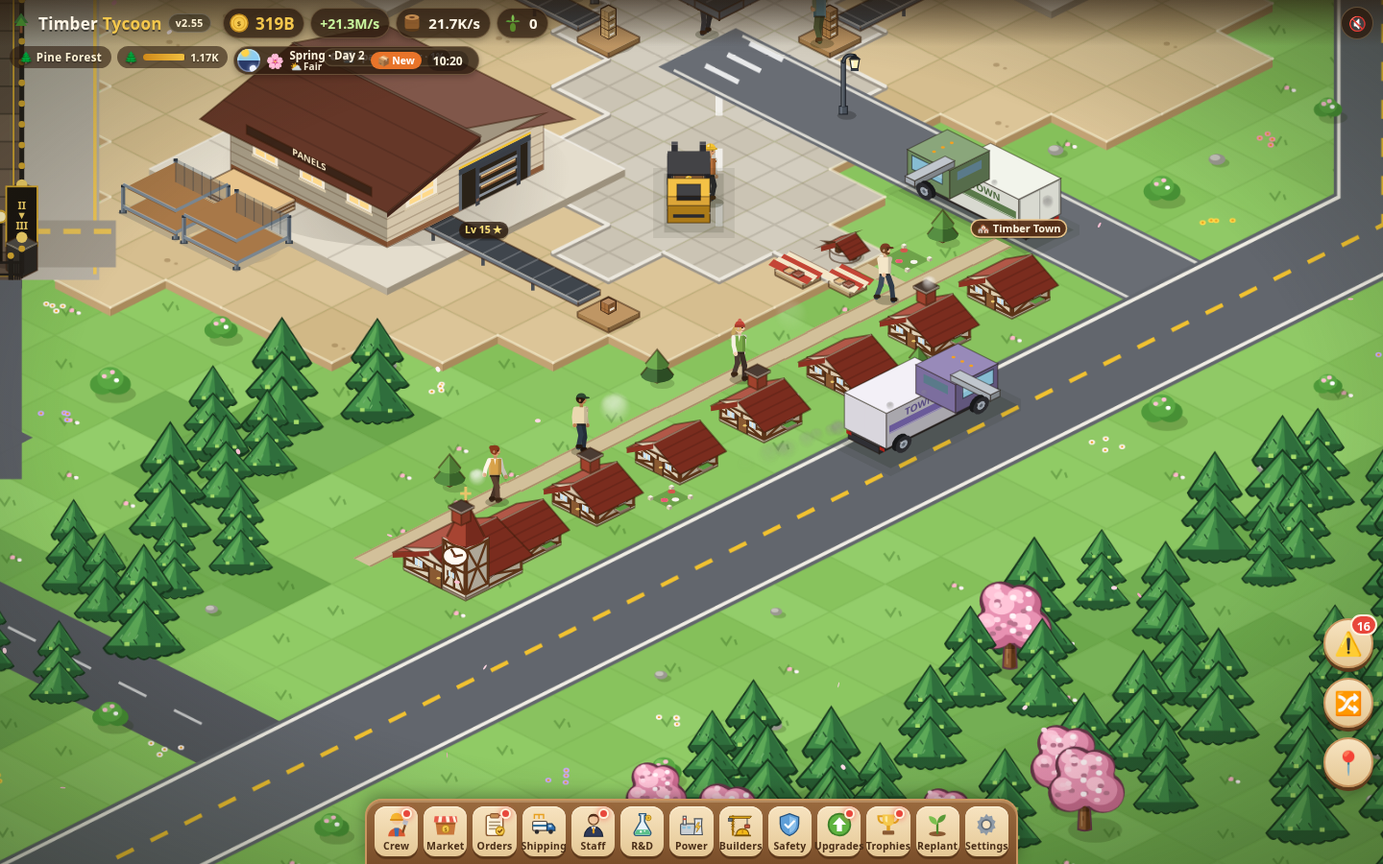
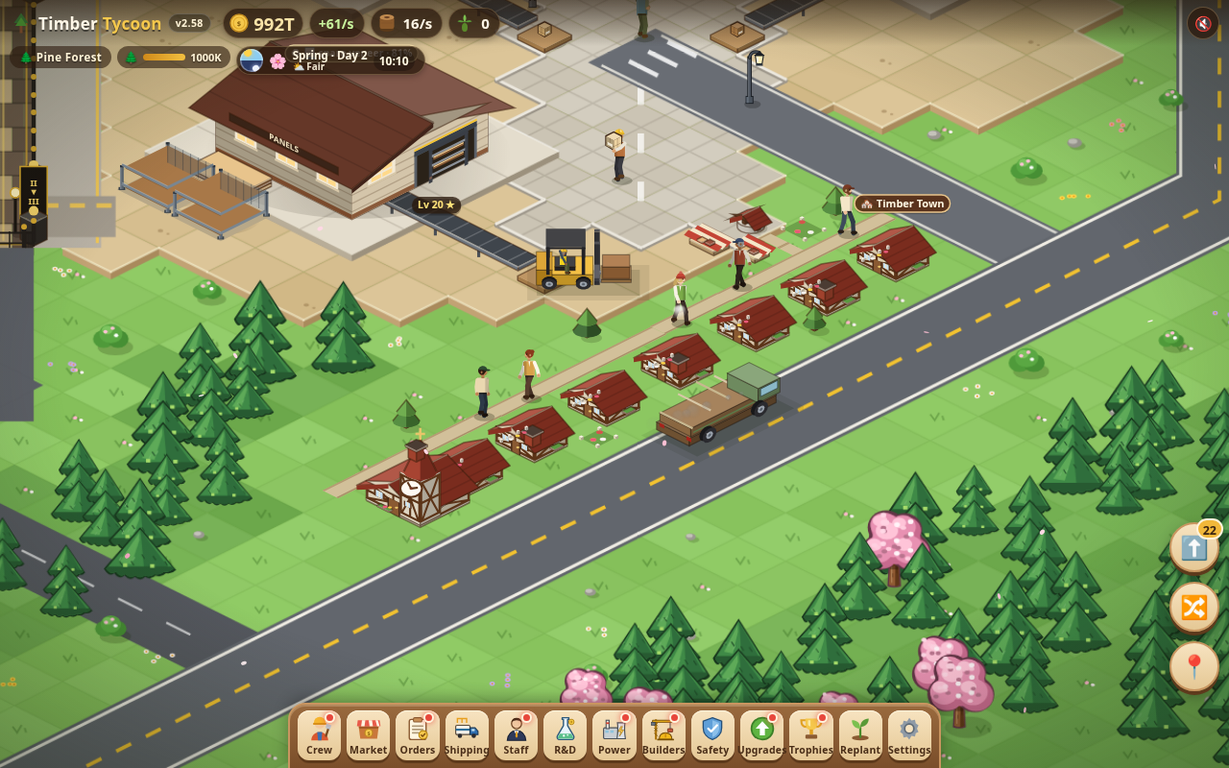
v2.58: keep cottage chimneys off the street
A far-corner stack projected onto the path, so a walker at a doorstep stood on the pot. The chimney now stands on the near corner of the roof, and the depth split keeps that pot, the stall awning, the well roof and the tree tip in the near half.

diff --git a/js/game.js b/js/game.js
@@ -8122,8 +8122,9 @@ function mktFleetDraw(ctx,objs,inView){
    corner) so a walker, a van or the scaffold cannot paint across a roof. The clip is
    the sprite's own box: a canvas-sized rectangle is dropped by the browser and the
    top of the sprite never paints. The church spire stands on the near corner, so the
-   whole tower stays in the near half (townSplitLift 64). One more walker on a large
-   screen, and only while graphics are not Low. */
+   whole tower stays in the near half (townSplitLift 64). A cottage chimney stands
+   on the near corner of the roof, and its lift is 42, so the stack stays in the near half.
+   One more walker on a large screen, and only while graphics are not Low. */
 const TOWN_STAGES=[
   {n:0,name:'Empty lot',say:'A cleared lot by the south gate, waiting on the first house kit.'},
   {n:1,name:'Hamlet',say:'One timber-frame cottage, a garden and a tree.'},
@@ -8323,7 +8324,9 @@ function townCot(ctx,p){
   townWin(ctx,'J',i1-.3,j1,5.2,.18,3.3);
   townWin(ctx,'I',i1,j0+.12,5.4,.2,3.1);
   gable(ctx,i0,j0,i1,j1,h,7.2,'j',TOWN_ROOF,wall,.08);
-  if(p.chim) townChim(ctx,i0+.16,j0+.16,h+3.2);
+  // Near corner of the roof. A stack on the far corner is pulled up onto the street,
+  // and a walker pausing at the doorstep stands on the pot.
+  if(p.chim) townChim(ctx,p.i+.28,p.j+.26,9.4);
   // flower box under the east window
   box(ctx,i1-.02,j0+.16,i1+.08,j0+.34,3.6,4.5,'#6b4226',{top:'#5a9a40'});
   // street-side picket and a few blooms, kept inside the footprint so the cached sprite does not grow
@@ -8538,16 +8541,20 @@ const TOWN_FEET=0.004;
 function townFlat(p){return p.kind==='path'||p.kind==='garden'||p.kind==='stake';}
 function townBoxOf(p){return {i0:p.i-p.wi/2,j0:p.j-p.wj/2,i1:p.i+p.wi/2,j1:p.j+p.wj/2};}
 /* Pixels above the footprint centre where the near half begins.
-   The roof slope that faces the camera stays with the near half. The far roof stays above the line.
-   The church tower is the exception: it stands on the near corner, and its cross clears the
-   centre by ~49px (shaft 29 + cone 22 + cross 7, minus the corner's own offset). A lower
-   line would leave the spire in the far half, where a walker between the two depths paints over it. */
+   Screen Y is (i+j)*HH - z, so a taller part or a far corner sits further above the centre.
+   The near half is everything at or below this line, and it sorts at the front corner, so a
+   walker between the two depths cannot paint over it. The far half is only what clears the line.
+   Anything left above the line is behind that walker: the church cross (about 49px up) and a
+   cottage chimney (wall 11.5, stack from +3.2, cap to +8.6, about 35px up at the far corner)
+   both did that. The back clip also reaches 0.8px below the line, so the lift sits a few
+   pixels past the tallest near-facing part. */
 function townSplitLift(p){
-  if(p.kind==='church') return 64;
-  if(p.kind==='tree') return 22;
-  if(p.kind==='well') return 14;
-  if(p.kind==='stall') return 9;
-  if(p.kind==='sign') return 7;
+  if(p.kind==='church') return 64;  // cross ~49px, nave chimney ~41px
+  if(p.kind==='cot') return 42;     // chimney cap ~35px; the near roof is below that
+  if(p.kind==='tree') return 28;    // upper cone tip ~19px
+  if(p.kind==='stall') return 22;   // awning, higher at the back, ~16px
+  if(p.kind==='well') return 20;    // little roof peak ~14px
+  if(p.kind==='sign') return 12;    // roof mark ~8px
   return 14;
 }
 /* Far half at the back corner, near half at the front corner.

diff --git a/releases/v2.58/js/game.js b/releases/v2.58/js/game.js
@@ -8122,8 +8122,9 @@ function mktFleetDraw(ctx,objs,inView){
    corner) so a walker, a van or the scaffold cannot paint across a roof. The clip is
    the sprite's own box: a canvas-sized rectangle is dropped by the browser and the
    top of the sprite never paints. The church spire stands on the near corner, so the
-   whole tower stays in the near half (townSplitLift 64). One more walker on a large
-   screen, and only while graphics are not Low. */
+   whole tower stays in the near half (townSplitLift 64). A cottage chimney stands
+   on the near corner of the roof, and its lift is 42, so the stack stays in the near half.
+   One more walker on a large screen, and only while graphics are not Low. */
 const TOWN_STAGES=[
   {n:0,name:'Empty lot',say:'A cleared lot by the south gate, waiting on the first house kit.'},
   {n:1,name:'Hamlet',say:'One timber-frame cottage, a garden and a tree.'},
@@ -8323,7 +8324,9 @@ function townCot(ctx,p){
   townWin(ctx,'J',i1-.3,j1,5.2,.18,3.3);
   townWin(ctx,'I',i1,j0+.12,5.4,.2,3.1);
   gable(ctx,i0,j0,i1,j1,h,7.2,'j',TOWN_ROOF,wall,.08);
-  if(p.chim) townChim(ctx,i0+.16,j0+.16,h+3.2);
+  // Near corner of the roof. A stack on the far corner is pulled up onto the street,
+  // and a walker pausing at the doorstep stands on the pot.
+  if(p.chim) townChim(ctx,p.i+.28,p.j+.26,9.4);
   // flower box under the east window
   box(ctx,i1-.02,j0+.16,i1+.08,j0+.34,3.6,4.5,'#6b4226',{top:'#5a9a40'});
   // street-side picket and a few blooms, kept inside the footprint so the cached sprite does not grow
@@ -8538,16 +8541,20 @@ const TOWN_FEET=0.004;
 function townFlat(p){return p.kind==='path'||p.kind==='garden'||p.kind==='stake';}
 function townBoxOf(p){return {i0:p.i-p.wi/2,j0:p.j-p.wj/2,i1:p.i+p.wi/2,j1:p.j+p.wj/2};}
 /* Pixels above the footprint centre where the near half begins.
-   The roof slope that faces the camera stays with the near half. The far roof stays above the line.
-   The church tower is the exception: it stands on the near corner, and its cross clears the
-   centre by ~49px (shaft 29 + cone 22 + cross 7, minus the corner's own offset). A lower
-   line would leave the spire in the far half, where a walker between the two depths paints over it. */
+   Screen Y is (i+j)*HH - z, so a taller part or a far corner sits further above the centre.
+   The near half is everything at or below this line, and it sorts at the front corner, so a
+   walker between the two depths cannot paint over it. The far half is only what clears the line.
+   Anything left above the line is behind that walker: the church cross (about 49px up) and a
+   cottage chimney (wall 11.5, stack from +3.2, cap to +8.6, about 35px up at the far corner)
+   both did that. The back clip also reaches 0.8px below the line, so the lift sits a few
+   pixels past the tallest near-facing part. */
 function townSplitLift(p){
-  if(p.kind==='church') return 64;
-  if(p.kind==='tree') return 22;
-  if(p.kind==='well') return 14;
-  if(p.kind==='stall') return 9;
-  if(p.kind==='sign') return 7;
+  if(p.kind==='church') return 64;  // cross ~49px, nave chimney ~41px
+  if(p.kind==='cot') return 42;     // chimney cap ~35px; the near roof is below that
+  if(p.kind==='tree') return 28;    // upper cone tip ~19px
+  if(p.kind==='stall') return 22;   // awning, higher at the back, ~16px
+  if(p.kind==='well') return 20;    // little roof peak ~14px
+  if(p.kind==='sign') return 12;    // roof mark ~8px
   return 14;
 }
 /* Far half at the back corner, near half at the front corner.

diff --git a/js/town.js b/js/town.js
@@ -13,8 +13,9 @@
    corner) so a walker, a van or the scaffold cannot paint across a roof. The clip is
    the sprite's own box: a canvas-sized rectangle is dropped by the browser and the
    top of the sprite never paints. The church spire stands on the near corner, so the
-   whole tower stays in the near half (townSplitLift 64). One more walker on a large
-   screen, and only while graphics are not Low. */
+   whole tower stays in the near half (townSplitLift 64). A cottage chimney stands
+   on the near corner of the roof, and its lift is 42, so the stack stays in the near half.
+   One more walker on a large screen, and only while graphics are not Low. */
 const TOWN_STAGES=[
   {n:0,name:'Empty lot',say:'A cleared lot by the south gate, waiting on the first house kit.'},
   {n:1,name:'Hamlet',say:'One timber-frame cottage, a garden and a tree.'},
@@ -214,7 +215,9 @@ function townCot(ctx,p){
   townWin(ctx,'J',i1-.3,j1,5.2,.18,3.3);
   townWin(ctx,'I',i1,j0+.12,5.4,.2,3.1);
   gable(ctx,i0,j0,i1,j1,h,7.2,'j',TOWN_ROOF,wall,.08);
-  if(p.chim) townChim(ctx,i0+.16,j0+.16,h+3.2);
+  // Near corner of the roof. A stack on the far corner is pulled up onto the street,
+  // and a walker pausing at the doorstep stands on the pot.
+  if(p.chim) townChim(ctx,p.i+.28,p.j+.26,9.4);
   // flower box under the east window
   box(ctx,i1-.02,j0+.16,i1+.08,j0+.34,3.6,4.5,'#6b4226',{top:'#5a9a40'});
   // street-side picket and a few blooms, kept inside the footprint so the cached sprite does not grow
@@ -429,16 +432,20 @@ const TOWN_FEET=0.004;
 function townFlat(p){return p.kind==='path'||p.kind==='garden'||p.kind==='stake';}
 function townBoxOf(p){return {i0:p.i-p.wi/2,j0:p.j-p.wj/2,i1:p.i+p.wi/2,j1:p.j+p.wj/2};}
 /* Pixels above the footprint centre where the near half begins.
-   The roof slope that faces the camera stays with the near half. The far roof stays above the line.
-   The church tower is the exception: it stands on the near corner, and its cross clears the
-   centre by ~49px (shaft 29 + cone 22 + cross 7, minus the corner's own offset). A lower
-   line would leave the spire in the far half, where a walker between the two depths paints over it. */
+   Screen Y is (i+j)*HH - z, so a taller part or a far corner sits further above the centre.
+   The near half is everything at or below this line, and it sorts at the front corner, so a
+   walker between the two depths cannot paint over it. The far half is only what clears the line.
+   Anything left above the line is behind that walker: the church cross (about 49px up) and a
+   cottage chimney (wall 11.5, stack from +3.2, cap to +8.6, about 35px up at the far corner)
+   both did that. The back clip also reaches 0.8px below the line, so the lift sits a few
+   pixels past the tallest near-facing part. */
 function townSplitLift(p){
-  if(p.kind==='church') return 64;
-  if(p.kind==='tree') return 22;
-  if(p.kind==='well') return 14;
-  if(p.kind==='stall') return 9;
-  if(p.kind==='sign') return 7;
+  if(p.kind==='church') return 64;  // cross ~49px, nave chimney ~41px
+  if(p.kind==='cot') return 42;     // chimney cap ~35px; the near roof is below that
+  if(p.kind==='tree') return 28;    // upper cone tip ~19px
+  if(p.kind==='stall') return 22;   // awning, higher at the back, ~16px
+  if(p.kind==='well') return 20;    // little roof peak ~14px
+  if(p.kind==='sign') return 12;    // roof mark ~8px
   return 14;
 }
 /* Far half at the back corner, near half at the front corner.

diff --git a/releases/v2.58/js/town.js b/releases/v2.58/js/town.js
@@ -13,8 +13,9 @@
    corner) so a walker, a van or the scaffold cannot paint across a roof. The clip is
    the sprite's own box: a canvas-sized rectangle is dropped by the browser and the
    top of the sprite never paints. The church spire stands on the near corner, so the
-   whole tower stays in the near half (townSplitLift 64). One more walker on a large
-   screen, and only while graphics are not Low. */
+   whole tower stays in the near half (townSplitLift 64). A cottage chimney stands
+   on the near corner of the roof, and its lift is 42, so the stack stays in the near half.
+   One more walker on a large screen, and only while graphics are not Low. */
 const TOWN_STAGES=[
   {n:0,name:'Empty lot',say:'A cleared lot by the south gate, waiting on the first house kit.'},
   {n:1,name:'Hamlet',say:'One timber-frame cottage, a garden and a tree.'},
@@ -214,7 +215,9 @@ function townCot(ctx,p){
   townWin(ctx,'J',i1-.3,j1,5.2,.18,3.3);
   townWin(ctx,'I',i1,j0+.12,5.4,.2,3.1);
   gable(ctx,i0,j0,i1,j1,h,7.2,'j',TOWN_ROOF,wall,.08);
-  if(p.chim) townChim(ctx,i0+.16,j0+.16,h+3.2);
+  // Near corner of the roof. A stack on the far corner is pulled up onto the street,
+  // and a walker pausing at the doorstep stands on the pot.
+  if(p.chim) townChim(ctx,p.i+.28,p.j+.26,9.4);
   // flower box under the east window
   box(ctx,i1-.02,j0+.16,i1+.08,j0+.34,3.6,4.5,'#6b4226',{top:'#5a9a40'});
   // street-side picket and a few blooms, kept inside the footprint so the cached sprite does not grow
@@ -429,16 +432,20 @@ const TOWN_FEET=0.004;
 function townFlat(p){return p.kind==='path'||p.kind==='garden'||p.kind==='stake';}
 function townBoxOf(p){return {i0:p.i-p.wi/2,j0:p.j-p.wj/2,i1:p.i+p.wi/2,j1:p.j+p.wj/2};}
 /* Pixels above the footprint centre where the near half begins.
-   The roof slope that faces the camera stays with the near half. The far roof stays above the line.
-   The church tower is the exception: it stands on the near corner, and its cross clears the
-   centre by ~49px (shaft 29 + cone 22 + cross 7, minus the corner's own offset). A lower
-   line would leave the spire in the far half, where a walker between the two depths paints over it. */
+   Screen Y is (i+j)*HH - z, so a taller part or a far corner sits further above the centre.
+   The near half is everything at or below this line, and it sorts at the front corner, so a
+   walker between the two depths cannot paint over it. The far half is only what clears the line.
+   Anything left above the line is behind that walker: the church cross (about 49px up) and a
+   cottage chimney (wall 11.5, stack from +3.2, cap to +8.6, about 35px up at the far corner)
+   both did that. The back clip also reaches 0.8px below the line, so the lift sits a few
+   pixels past the tallest near-facing part. */
 function townSplitLift(p){
-  if(p.kind==='church') return 64;
-  if(p.kind==='tree') return 22;
-  if(p.kind==='well') return 14;
-  if(p.kind==='stall') return 9;
-  if(p.kind==='sign') return 7;
+  if(p.kind==='church') return 64;  // cross ~49px, nave chimney ~41px
+  if(p.kind==='cot') return 42;     // chimney cap ~35px; the near roof is below that
+  if(p.kind==='tree') return 28;    // upper cone tip ~19px
+  if(p.kind==='stall') return 22;   // awning, higher at the back, ~16px
+  if(p.kind==='well') return 20;    // little roof peak ~14px
+  if(p.kind==='sign') return 12;    // roof mark ~8px
   return 14;
 }
 /* Far half at the back corner, near half at the front corner.

diff --git a/test/v258.py b/test/v258.py
@@ -177,12 +177,14 @@ with sync_playwright() as p:
       S.town.made=250000; townStage();
       gfxSet("high"); const hi=townFolk().length;
       gfxSet("low"); const lo=townFolk().length;
-      const lift=townSplitLift(townPieces().find(q=>q.kind==="church"));
+      const lifts={};
+      for(const k of ["church","cot","stall","well","tree","sign"]) lifts[k]=townSplitLift({kind:k});
       gfxSet("auto");
-      return {hi, lo, w:scene.w, low:gfxLow(), lift, looks:townLooks().length};
+      return {hi, lo, w:scene.w, low:gfxLow(), lifts, looks:townLooks().length};
     }''')
-    ok(folk['w']>=700 and folk['hi']==5 and folk['lo']==4 and folk['low'] is False and folk['lift']==64 and folk['looks']==6,
-       f"large screen adds one walker on High only, Low stays at the v2.57 count, church lift is 64 ({folk})")
+    ok(folk['w']>=700 and folk['hi']==5 and folk['lo']==4 and folk['low'] is False and folk['looks']==6
+       and folk['lifts']=={"church":64,"cot":42,"stall":22,"well":20,"tree":28,"sign":12},
+       f"large screen adds one walker on High only, Low stays at the v2.57 count, lifts clear the tall parts ({folk})")
     order=E(pg, ORDER)
     ok(order['nb']==0 and order['checks']>1000 and order['sc']>=2 and order['scBad']==0 and order['ni']==0,
        f"sort holds for residents, vans and the scaffold ({order['checks']} checks, {order['nb']} bad, scaffold halves {order['sc']}, inside {order['inside'][:2]})")
@@ -209,7 +211,6 @@ with sync_playwright() as p:
       scene.particles.length=0;
       for(let i=0;i<5;i++){scene.t=1; stepScene(0);}
       const ch=townPieces().find(q=>q.kind==="church");
-      const cot=townPieces().filter(q=>q.kind==="cot").pop();
       const dpr=scene.dpr||1, W=scene.w, H=scene.h;
       function flatCount(piece, half){
         const z=cam.z;
@@ -227,13 +228,37 @@ with sync_playwright() as p:
         }
         return {n, gold};
       }
-      const front=flatCount(ch,"front"), back=flatCount(ch,"back"), cotBack=flatCount(cot,"back");
       function art(R,G,B){
         const roof=R>140&&G<140&&B<115&&R>G+40&&R>B+35;
         const gold=R>200&&G>165&&B<140&&G>B+40&&R-G<80;
         const cap=R>40&&R<100&&G>25&&G<75&&B<65&&R>G+15&&Math.abs(G-B)<25;
         return roof||gold||cap;
       }
+      // Cottage roof, including the shaded slope, and the chimney shaft and grey-brown cap.
+      // Timber and the cream wall stay out, so a walker in front of a door is not a hit.
+      function house(R,G,B){
+        const roof=R>105&&R<220&&G<130&&B<110&&R>G+35&&R>B+30;
+        const pot=R>65&&R<150&&G>45&&G<130&&B>35&&B<120&&R>=G-5&&R-G<45&&Math.abs(G-B)<40;
+        return roof||pot;
+      }
+      function tally(piece, half, paint){
+        const z=cam.z;
+        g.setTransform(dpr,0,0,dpr,0,0); g.fillStyle="#00ff00"; g.fillRect(0,0,cv.width,cv.height);
+        const base=g.getImageData(0,0,cv.width,cv.height).data;
+        g.setTransform(dpr*z,0,0,dpr*z,dpr*(W/2-cam.x*z),dpr*(H/2-cam.y*z));
+        townClip(g, piece, half);
+        const d=g.getImageData(0,0,cv.width,cv.height).data;
+        let n=0, gold=0, chim=0;
+        for(let i=0;i<d.length;i+=4){
+          if(d[i]===base[i]&&d[i+1]===base[i+1]&&d[i+2]===base[i+2]) continue;
+          n++;
+          if(paint(d[i],d[i+1],d[i+2])){if(art(d[i],d[i+1],d[i+2])&&d[i]>200) gold++; if(house(d[i],d[i+1],d[i+2])) chim++;}
+        }
+        return {n, gold, chim};
+      }
+      const chimCot=townPieces().find(q=>q.kind==="cot"&&q.chim);
+      const front=flatCount(ch,"front"), back=flatCount(ch,"back");
+      const cotFront=tally(chimCot,"front",house), cotBack=tally(chimCot,"back",house);
       const keepLive=townLive, keepFolk=townFolk;
       const times=[];
       for(let t=0;t<110&&times.length<4;t+=0.45){
@@ -270,13 +295,72 @@ with sync_playwright() as p:
           }
         }
       }
+      // Same rule for every cottage roof and chimney. No handful of pixels is ignored:
+      // a walker standing on a pot is a miss. The row is on this camera.
+      const cots=keepLive().filter(q=>q.kind==="cot");
+      const cotTimes=[];
+      for(let t=0;t<110&&cotTimes.length<4;t+=0.45){
+        scene.t=t;
+        const near=townFolk().some(f=>cots.some(q=>Math.abs(f.j-q.j)<1.6));
+        if(near&&(cotTimes.length===0||t-cotTimes[cotTimes.length-1]>8)) cotTimes.push(+t.toFixed(2));
+      }
+      let cotCovered=0, cotMask=0, cotChecks=0;
+      const cotBad=[];
+      for(const clock of clocks){
+        TT.setClock(clock); S.wx.w="clear"; S.wx.next=1e15;
+        scene.particles.length=0; scene.t=cotTimes[0];
+        for(let i=0;i<3;i++) stepScene(0);
+        for(const t of cotTimes){
+          scene.particles.length=0; scene.t=t;
+          townLive=keepLive; townFolk=()=>[]; stepScene(0);
+          const A=g.getImageData(0,0,cv.width,cv.height).data;
+          townLive=()=>keepLive().filter(q=>q.kind!=="cot"); stepScene(0);
+          const B=g.getImageData(0,0,cv.width,cv.height).data;
+          townLive=keepLive; townFolk=keepFolk; stepScene(0);
+          const C=g.getImageData(0,0,cv.width,cv.height).data;
+          townLive=()=>keepLive().filter(q=>q.kind!=="cot"); stepScene(0);
+          const Ww=g.getImageData(0,0,cv.width,cv.height).data;
+          cotChecks++;
+          for(let i=0;i<A.length;i+=4){
+            if(A[i]===B[i]&&A[i+1]===B[i+1]&&A[i+2]===B[i+2]) continue;
+            if(!house(A[i],A[i+1],A[i+2])) continue;
+            cotMask++;
+            if(C[i]===A[i]&&C[i+1]===A[i+1]&&C[i+2]===A[i+2]) continue;
+            if(C[i]===Ww[i]&&C[i+1]===Ww[i+1]&&C[i+2]===Ww[i+2]){
+              cotCovered++;
+              if(cotBad.length<4) cotBad.push(clock+":"+t);
+            }
+          }
+        }
+      }
       townLive=keepLive; townFolk=keepFolk; scene.particles.length=0;
       TT.setClock(10*60); scene.visible=true;
-      return {covered, mask, checks, times, bad, front, back, cotBack:cotBack.n};
+      return {covered, mask, checks, times, bad, front, back, cotFront, cotBack, cotCovered, cotMask, cotChecks, cotTimes, cotBad};
     }''')
     ok(roof['times'] and len(roof['times'])>=3 and roof['checks']>=9 and roof['mask']>2000
-       and roof['covered']==0 and roof['cotBack']>200 and roof['front']['gold']>10 and roof['back']['gold']==0,
-       f"walkers cover 0 church roof/tower pixels ({roof['covered']} covered, mask {roof['mask']}, times {roof['times']}, clocks {roof['checks']}, far half {roof['cotBack']}, cross in the near half {roof['front']['gold']}/{roof['back']['gold']})")
+       and roof['covered']==0 and roof['front']['gold']>10 and roof['back']['gold']==0,
+       f"walkers cover 0 church roof/tower pixels ({roof['covered']} covered, mask {roof['mask']}, times {roof['times']}, clocks {roof['checks']}, cross in the near half {roof['front']['gold']}/{roof['back']['gold']})")
+    ok(roof['cotTimes'] and len(roof['cotTimes'])>=3 and roof['cotChecks']>=9 and roof['cotMask']>2000
+       and roof['cotCovered']==0 and roof['cotFront']['chim']>80 and roof['cotBack']['chim']==0,
+       f"walkers cover 0 cottage roof/chimney pixels ({roof['cotCovered']} covered, mask {roof['cotMask']}, times {roof['cotTimes']}, chimney in the near half {roof['cotFront']['chim']}/{roof['cotBack']['chim']}, {roof['cotBad']})")
+    # Feet on the cap are not a covered roof pixel: the boots sit in the grass just above the pot.
+    # The gap is in screen pixels, and zero is the only passing distance under 14.
+    gap=E(pg, r'''()=>{
+      let best=1e9;
+      for(let t=0;t<=50;t+=0.2){
+        scene.t=t;
+        for(const p of townPieces()){
+          if(!(p.kind==="cot"&&p.chim)) continue;
+          const top=P(p.i+.28, p.j+.26, 18);
+          for(const f of townFolk()){
+            const fp=P(f.i,f.j), d=Math.hypot(fp[0]-top[0], fp[1]-top[1]);
+            if(d<best) best=d;
+          }
+        }
+      }
+      return best;
+    }''')
+    ok(gap>=14, f"walker feet stay off the cottage chimney ({gap:.1f}px, need 14)")
     # ---- early game vs v2.55 ----
     pg.close()
     pg=page(); e_new=E(pg, EARLY); pg.close()

diff --git a/docs/DEVELOPMENT.md b/docs/DEVELOPMENT.md
@@ -33,7 +33,7 @@ Code map, workflow and conventions. The player-facing overview is the [README](.
 - `js/notify.js` (v2.43, maintenance item 8 part 1): calm notifications. `toast()` in `js/logic_b.js` calls `ntPush`: priorities `ntPri` (3 setbacks/fires, 2 milestones/trophies/tap feedback, 1 routine), caps `ntCap` (phone 1 / desktop 3), queue `NT.q` (≤ `NT_QMAX`, expiry `NT_WAIT`, the visible one hurries), repeat merge by `ntKey` (numbers masked, ×N badge), phone durations `ntDur`, tap to dismiss, the 🔔 pill `#ntPill` → `ntOpenLog` (last `NT_LOG`, per session), Settings row `#ntSet` (All / Important = `S.prefs.ntQuiet`), and the compact phone order offer `ntOrderCard` (`.mini` after `NT_OC_MINI` s). Tests that need a clean screen can call `ntClear()`; `NT.stats` counts pushed/shown/merged/queued/bumped/expired
 - `js/marketfleet.js` (v2.21): Town Market Fleet — small delivery vans / early-game carts that pick up auto-sold goods at Phase 1–2 stock piles and drive off-screen with a coin float (cosmetic; dock trucks stay for shipping). v2.55 adds one extra van per two village stages; those drive the south-gate street
 - `js/quality.js` (v2.56): graphics quality. `S.prefs.gfx` is `'high'`, `'low'` or absent (Auto). `gfxLow()` is what the scene asks: Low skips smoke, puddles, tree shadows, stars, rain splashes, wind sway and 60% of the weather particles, and replaces the night light map with one flat tint. `gfxTick(now)` runs once per `requestAnimationFrame` tick in `sceneLoop`: it is the frame cap (a tick less than 10 ms after the last drawn frame is skipped, 28 ms on Low, so 120 Hz+ screens draw every other tick and Low draws at 30 fps) and the Auto watch (two 4 s windows in a row under 40 fps switch to Low; the switch is kept for three days in `localStorage` `timberTycoon_gfx_v1`, not in the save). The watch is off under WebDriver so the suites always see High. The simulation loop in `js/main.js` is not touched
-- `js/town.js` (v2.55, depth fix v2.58): south-gate village. `S.town` is `{made, stage, best, seen}`. `made` counts timber-frame house kits that entered stock from the workshop this run (after the stock cap). `TOWN_STAGES` is Empty lot, Hamlet (1), Village (25), Large village (250), Market town (2,500), Town (25,000), Timber Town (250,000). `townMult()` is +2.5% per stage, capped at +15%, applied only by `marketPrice()` on auto-sell and the Sell button for Phase 1–2 goods. Logs stay unsellable. Orders, contracts, exports and research keep using `price()`. Replant clears `made`, `stage` and `seen` and keeps `best` for the trophies. Cottages, the square and the clock tower are cached sprites on the verge west of the highway. The village label passes `{lo:1}`. `townNorm()` repairs old and damaged saves and may seed `made` from houses already in stock. v2.58 draws each tall piece as two depths (`townPieceKeys`: far half at the back corner, near half at the front corner, split by `townSplitLift`; the church returns 64 so the tower, spire and cross stay in the near half) so a resident, a town van or the scaffold sorts between them instead of using one front-corner key for the whole sprite. The clip is the sprite box (`townHalfClip`); a canvas-sized clip rectangle is dropped by the browser. Walkers pause at the well, the stalls and a doorstep. `townExtraFolk()` adds one walker on a large screen and returns false on Low graphics and on a phone, so Low does not add a resident. `townSortParts()` is the list the tests read
+- `js/town.js` (v2.55, depth fix v2.58): south-gate village. `S.town` is `{made, stage, best, seen}`. `made` counts timber-frame house kits that entered stock from the workshop this run (after the stock cap). `TOWN_STAGES` is Empty lot, Hamlet (1), Village (25), Large village (250), Market town (2,500), Town (25,000), Timber Town (250,000). `townMult()` is +2.5% per stage, capped at +15%, applied only by `marketPrice()` on auto-sell and the Sell button for Phase 1–2 goods. Logs stay unsellable. Orders, contracts, exports and research keep using `price()`. Replant clears `made`, `stage` and `seen` and keeps `best` for the trophies. Cottages, the square and the clock tower are cached sprites on the verge west of the highway. The village label passes `{lo:1}`. `townNorm()` repairs old and damaged saves and may seed `made` from houses already in stock. v2.58 draws each tall piece as two depths (`townPieceKeys`: far half at the back corner, near half at the front corner, split by `townSplitLift`; the church returns 64 so the tower, spire and cross stay in the near half, and a cottage returns 42 so its chimney cap does too (stall 22, well 20, tree 28, sign 12)) so a resident, a town van or the scaffold sorts between them instead of using one front-corner key for the whole sprite. The clip is the sprite box (`townHalfClip`); a canvas-sized clip rectangle is dropped by the browser. Walkers pause at the well, the stalls and a doorstep. `townExtraFolk()` adds one walker on a large screen and returns false on Low graphics and on a phone, so Low does not add a resident. `townSortParts()` is the list the tests read
 - `js/tiers.js` (v2.20): factory tiers — Phase 1 (logs only) → Phase 2 → Premium, the new Veneer Peeler, processing margins, tier badges, cross-lane forklifts, ground signs (design: `docs/tiers-v2.20.md`); v2.20.1: logs are raw material only (`canSell`, Log Yard cap `logCap`, first Sawmill built with 🪵 `SAW_LOGS`, free first Lumberjack); v2.21.1: Phase 3 (Premium) is its own row beyond Phase 2 (`PROW` in `js/scene1.js`, row drawing in `js/scene7.js`) — three parallel rows I → II → III, II → III forklift gates, Phase 3 dock
 - `js/premium.js` (v2.2 storage, Premium Area, client orders; v2.6 daily contracts): v2.25 order sizing (`ordRate`, `ordPlan`, `ordPay`, `ordInc`: amounts follow real output with a value floor of 5 s of income / forest value, ≥ 20 units, rewards 1.5–2.5× the goods), the client order board (`S.orders.offers` / `acts`, `ordSlots` 1–3, `ordBoardMax`, `ordNorm` keeps `.offer` / `.active` as accessors), daily contracts drawn once lines run and resized until accepted (`dailyReady`, `dailyResize`); export contracts in `js/shipping.js` use the same floors
 - `js/research.js` (v2.19 Research 2.0): 67-node tree in 5 branches × 5 Legacy-gated tiers, milestone gates, growing costs, ♾ repeatables, R&D sheet + trade map (design: `docs/research-v2.19.md`)

diff --git a/CHANGELOG.md b/CHANGELOG.md
@@ -10,7 +10,7 @@ and this project uses [Semantic Versioning](https://semver.org/).
 **Residents stay on the street.** In Timber Town a walker could be painted across a roof, or hidden by a wall that was beside them. Each tall building is now two depths, so the near half is in front of the walker and the far half is behind them. A save from v2.57 still loads. The first minutes of a run match v2.57.
 
 ### Fixed
-- **Village depth.** A cottage, the church, a stall, the well or a tree was one picture, and that picture was sorted at the front corner of its footprint. The church spire is part of that fix: the far-half clip was a canvas-sized rectangle, which the browser drops, so the top of a tall sprite never painted and a walker showed through the clock tower. The clip is now the sprite's own box (`townHalfClip`), and the whole tower stays in the near half (`townSplitLift` 64 for the church). A resident is sorted at their feet, the same way a worker in the yard is. The front corner sits closer to the camera than the near wall, so the whole picture — including the far roof — was drawn after a walker who was already in front of that wall. The same single key put a walker who was east of a stall on top of the awning, and it did the same to a market van and to the short scaffold that appears when a new piece is built. The yard does not sort a building that way: the lot uses its centre and the person uses the ground under their boots. The village sprites stay cached. Each tall one is drawn in two halves, split on the depth line. The far half sorts at the back corner. The near half, including the roof slope that faces you, sorts at the front corner. A resident, a town van and the scaffold fall between those two keys when they are beside the building. Paths, gardens and stakes stay one flat key, under the feet.
+- **Village depth.** A cottage, the church, a stall, the well or a tree was one picture, and that picture was sorted at the front corner of its footprint. The church spire is part of that fix: the far-half clip was a canvas-sized rectangle, which the browser drops, so the top of a tall sprite never painted and a walker showed through the clock tower. The clip is now the sprite's own box (`townHalfClip`), and the whole tower stays in the near half (`townSplitLift` 64 for the church). A cottage chimney is the same kind of miss. The stack used to stand on the far corner, about 35px above the footprint centre, and a lift of 14 left it in the far half. That corner also projects onto the street, so a walker at a doorstep stood on the pot even after the lift. The pot now stands on the near corner of the roof, and the cottage lift is 42, so the chimney and the near roof are in the near half. The stall awning (22), the well roof (20), the tree tip (28) and the sign's roof mark (12) clear their own tops the same way. A resident is sorted at their feet, the same way a worker in the yard is. The front corner sits closer to the camera than the near wall, so the whole picture — including the far roof — was drawn after a walker who was already in front of that wall. The same single key put a walker who was east of a stall on top of the awning, and it did the same to a market van and to the short scaffold that appears when a new piece is built. The yard does not sort a building that way: the lot uses its centre and the person uses the ground under their boots. The village sprites stay cached. Each tall one is drawn in two halves, split on the depth line. The far half sorts at the back corner. The near half, including the roof slope that faces you, sorts at the front corner. A resident, a town van and the scaffold fall between those two keys when they are beside the building. Paths, gardens and stakes stay one flat key, under the feet.
 
 ### Changed
 - Walkers pause at the well, at the stalls and on a cottage doorstep. There is one more of them at Timber Town on a large screen, and only while graphics are not Low. Low keeps the v2.57 walker count, so it does not add a resident or that extra draw. Phones keep the same draw cap. Two more outfits. Cottages grow a short street-side picket and a few flowers, and the church door has a flower box. The picket, the flowers and the outfits are in the cached sprites.
